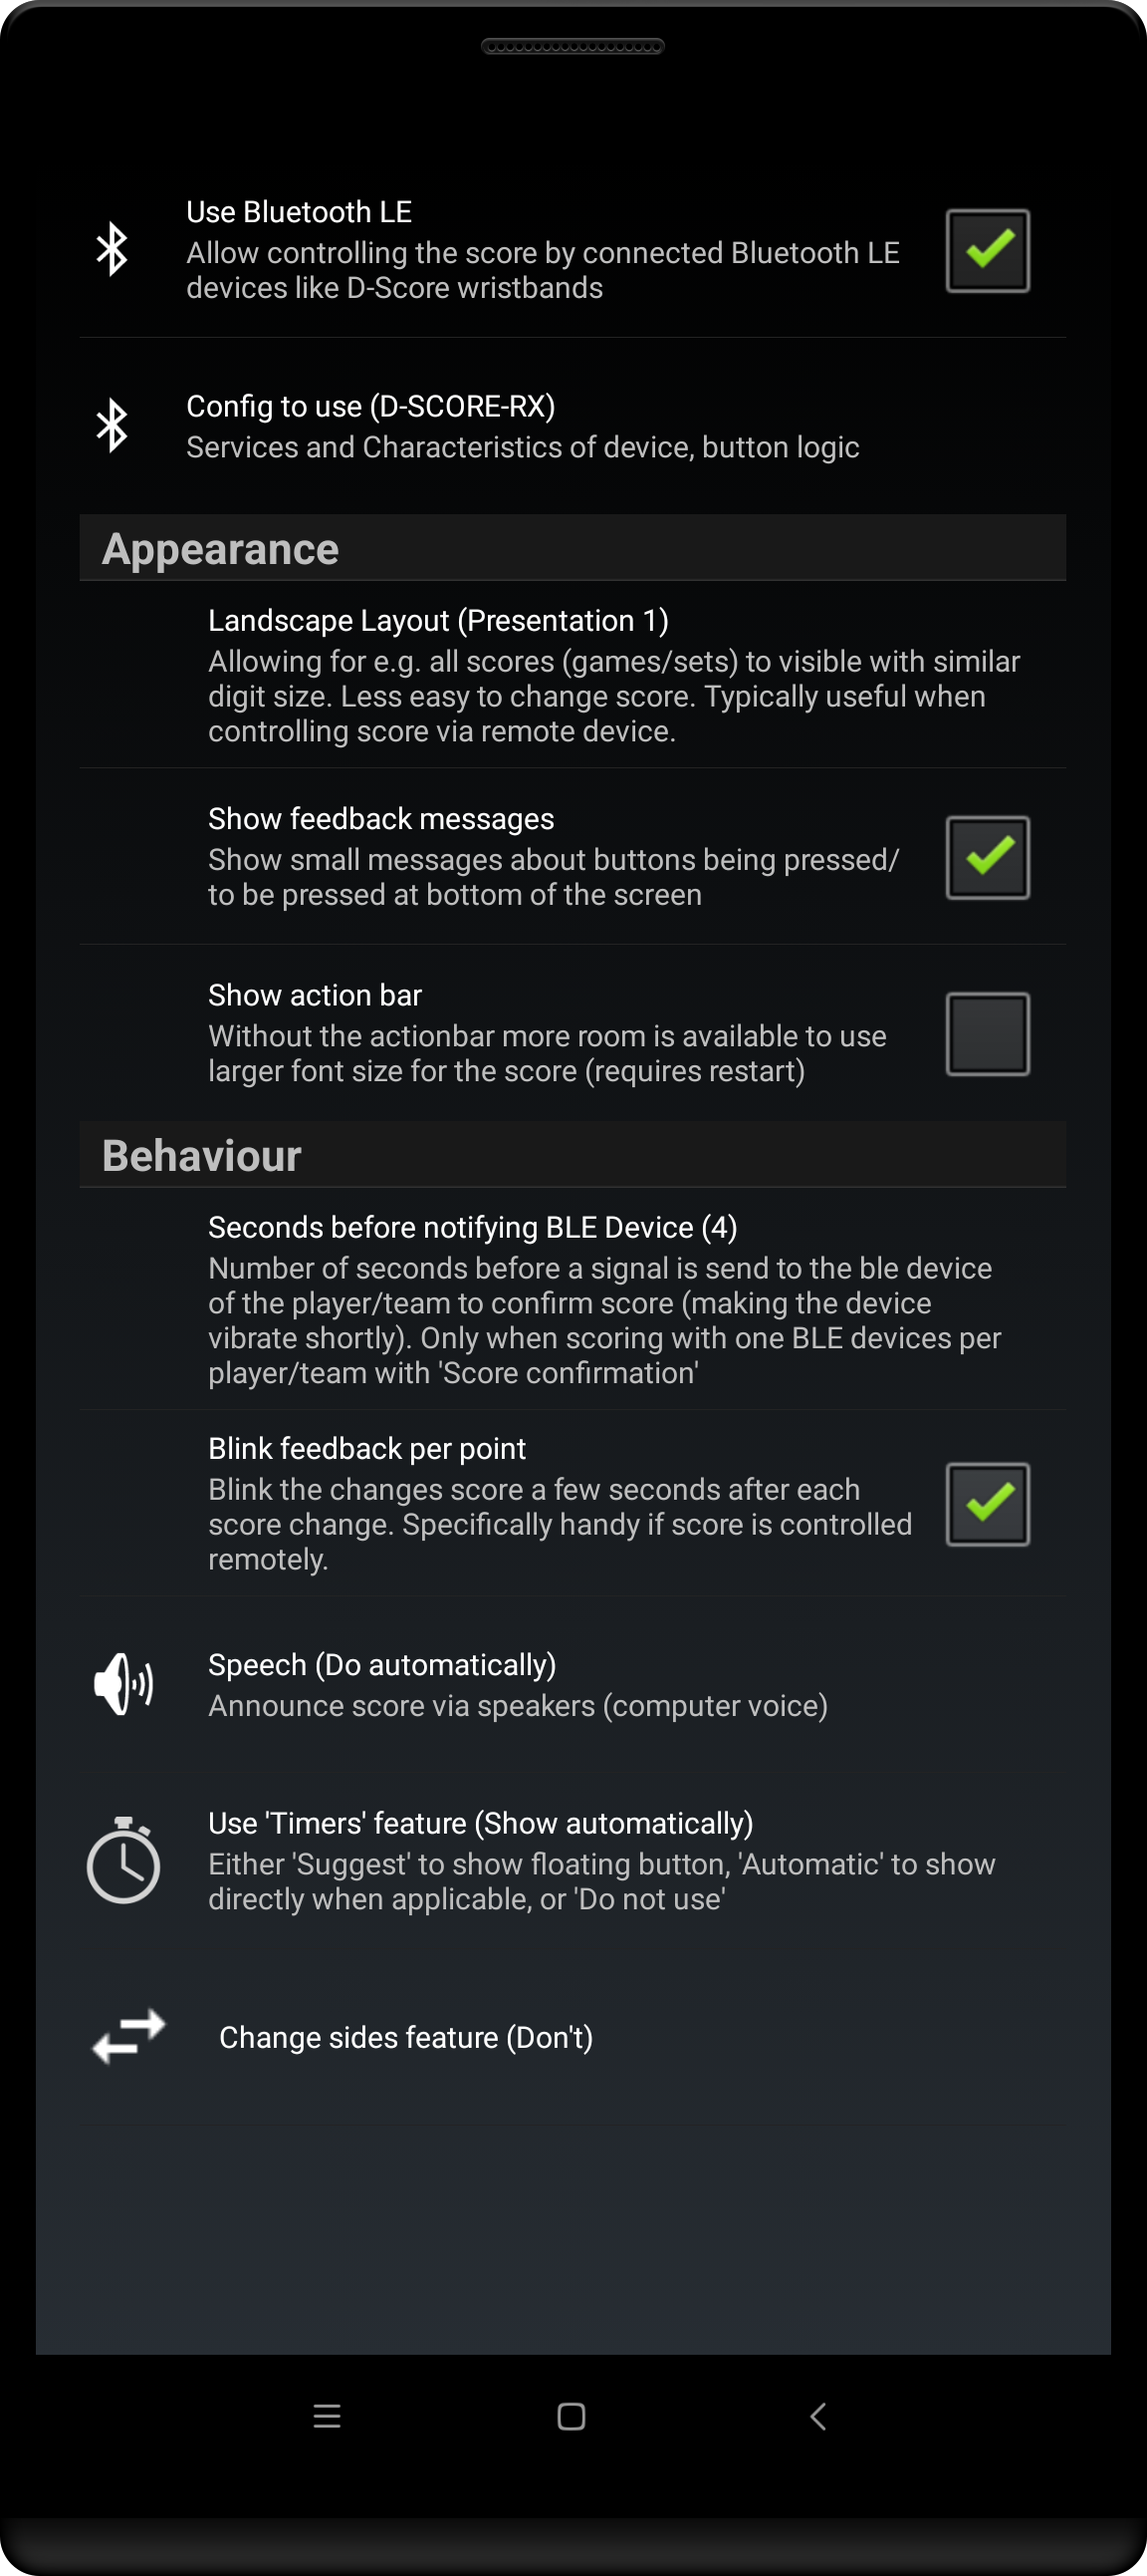
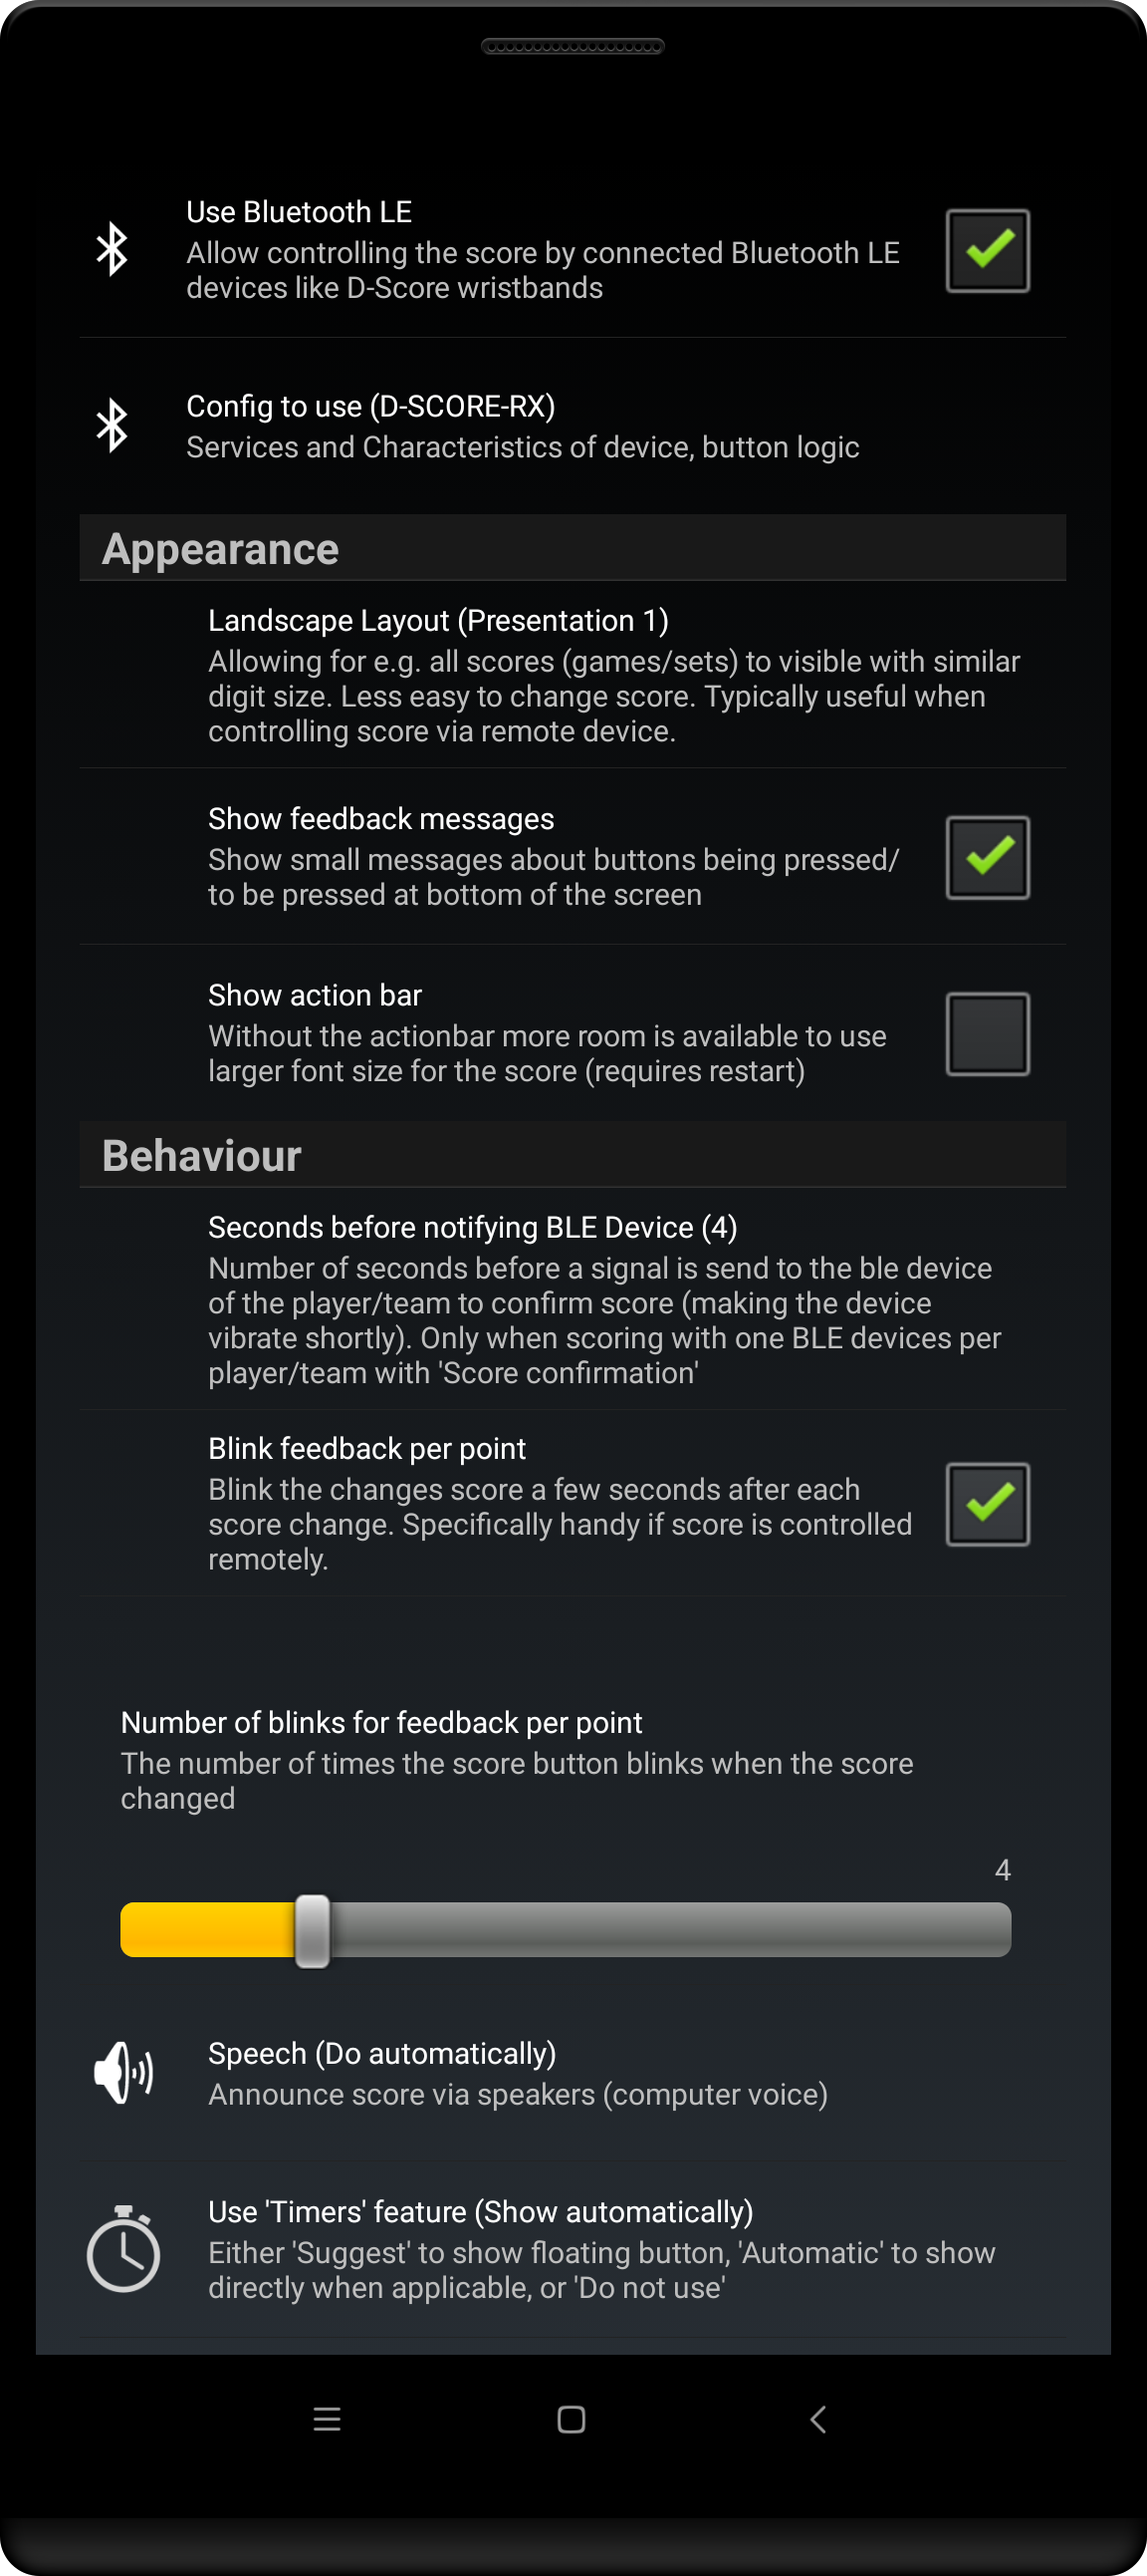
Documentation

diff --git a/docs/reffing/8.2.bluetooth.le.md b/docs/reffing/8.2.bluetooth.le.md
@@ -130,7 +130,8 @@ These can all be changed in the specially created `Settings > Bluetooth` LE sect
     - Show action bar: best turned off to have more room to show the score
 - Behaviour
     - Seconds before notifying BLE device
-        - Typically set to 4 seconds. Once players are familiar with the mechanism of confirming a score this might be increased (making the device vibrate less, preventing draining the battery) 
+        - Typically set to 4 seconds. Once players are familiar with the mechanism of confirming a score this might be increased (making the device vibrate less, preventing draining the battery)
+    - Weather or not the score buttons should blink if a score is changed, and if so, the number of blinks 
     - Use 'Timers' feature: Either `Automatically` or `Do not use`. Best not use `Suggest` 
     - Changes sides feature: `Don't`
 
